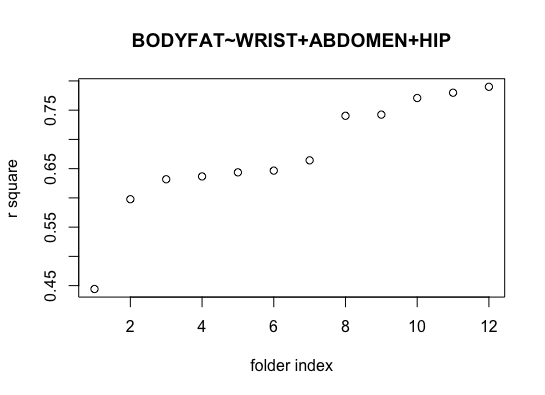
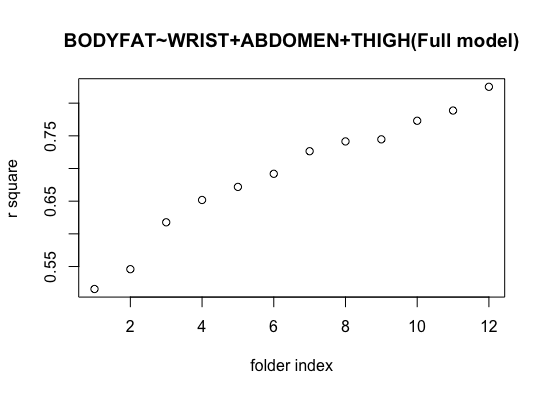
add some expriments

diff --git a/other expriments/readme.md b/other expriments/readme.md
@@ -1,0 +1,33 @@
+## Background
+
+When we on our way to find the easiest and good performance model, we noticed that there some interesting combinations. But unfortunately, compared with the final model we chose, these models who have a high performance are against "rule of thumb", it's kind of diffcult to use. On the other hand, the simple models usually have bad performance. But we still find some competitive combinations and it's worth to write them down.
+
+
+
+## Our final model
+
+we aim to make the model simple and powerful. We only use three parameters here so the model is quite simple.Besides, we can see the R square in different folder are all greater than 0.6 except for the smallest one. The most important thing is that our model's performance is quite steady,it means that our model will also work well in the test set and we don't need to consider the problem like over-fitting,etc.
+
+<img src="/Users/robin/Desktop/628HW2/final/628ModuleTwo13/other expriments/Final_model.png" alt="Final_model" style="zoom:67%;" />
+
+
+
+## Other Combinations 
+
+
+
+##### Model 1: Bodyfat ~ WRIST + ABDOMEN + THIGH(Full Model)
+
+<img src="/Users/robin/Desktop/628HW2/final/628ModuleTwo13/other expriments/Expri_1.png" style="zoom:67%;" />
+
+ We do 12-folder cross validation test to judge the performance of a model. Compared with final model, the R square of this model varies a lot.It means that the model may overfit the train set and it can't perform well in general.Besides, this model is more complicate than our final model.However, this model still got a good performance in average.
+
+
+
+##### Model 2: Bodyfat ~ ABDOMEN + WEIGHT
+
+
+
+<img src="/Users/robin/Desktop/628HW2/final/628ModuleTwo13/other expriments/Expri_2.png" alt="Expri_2" style="zoom:67%;" />
+
+This model only takes two parameters,"weight" and "Abdomen", which is super straightforward. In the meantime, it's still perfom well. The bad part of this model is that there exists a folder whose R square is quite low(<0.4) .So we think this model is a little wrose than our final one.
